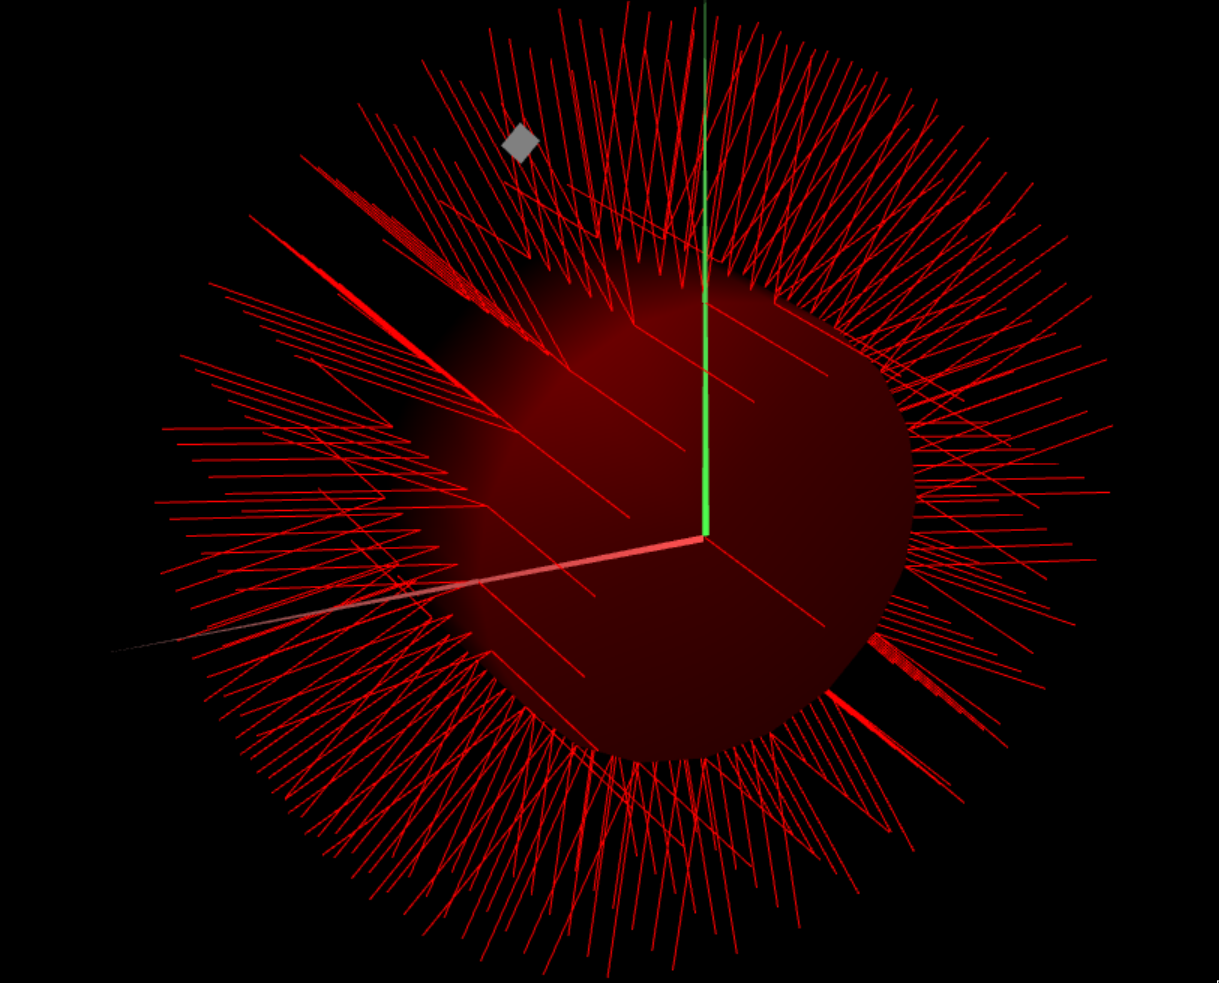
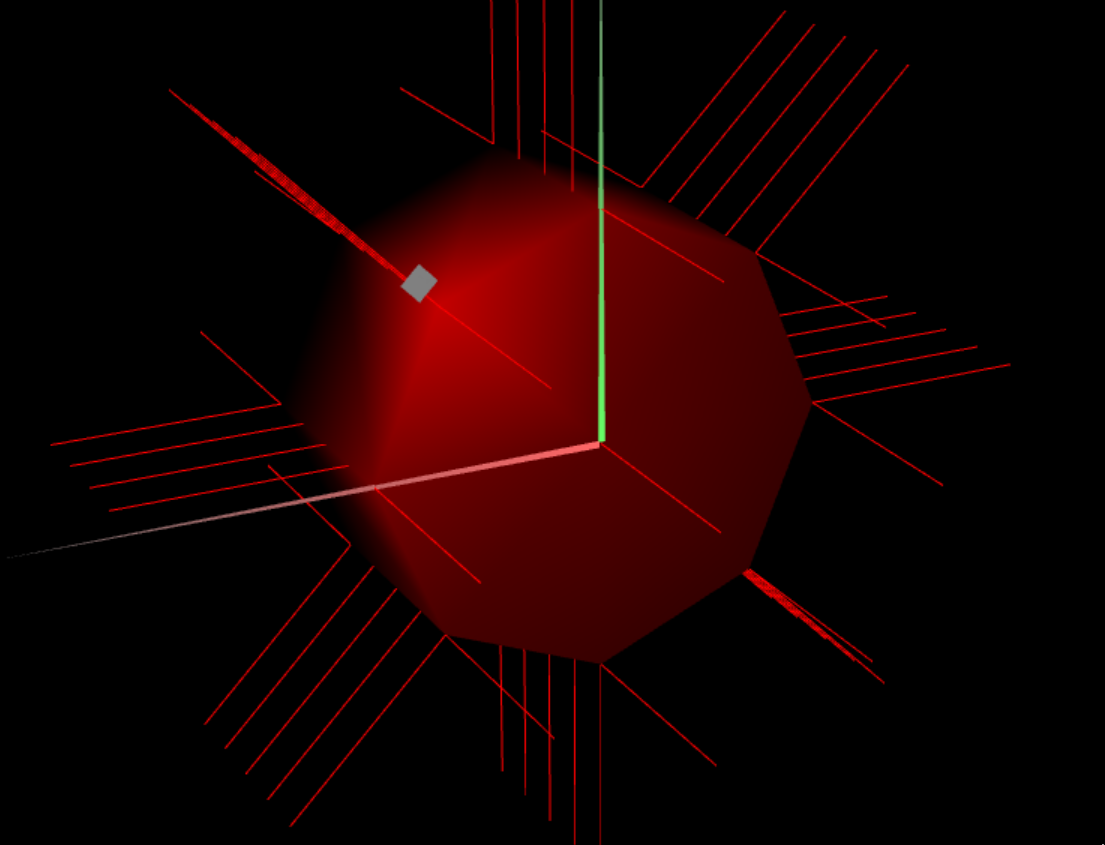
Finished report

diff --git a/tp3/MyCylinder.js b/tp3/MyCylinder.js
@@ -1,4 +1,4 @@
-import { MyPrism } from './MyPrism.js';
+import {MyPrism} from './MyPrism.js';
 /**
  * MyTriangleSmall
  * @constructor
@@ -10,44 +10,6 @@ export class MyCylinder extends MyPrism {
 
     this.initBuffers();
   }
-
-  initBuffers() {
-    console.log("MyCylinder.initBuffers")
-    this.vertices = [
-      0, 0, 0,  //
-      0, 0, 1   //
-    ];
-    this.indices = [];
-    this.normals = [
-      0, 0, -1,  //
-      0, 0, 1    //
-    ];
-
-    const angle = 2 * Math.PI / this.slices;
-
-    // Generate the base
-    for (let i = 0; i < this.slices; i++) {
-      const x = Math.cos(i * angle);
-      const y = Math.sin(i * angle);
-
-      this.vertices.push(x, y, 0);
-      this.indices.push(i + 2, 0, (i + 1) % this.slices + 2);
-      const vector = [x, y];
-      const length = Math.sqrt(vector[0]**2 + vector[1]**2)
-      const normalVector = [vector[0] / length, vector[1] / length]
-      this.normals.push(normalVector[0], normalVector[1], 0);
-    }
-
-    // Generate stacks
-    // for (let i = 0;)
-
-    // The defined indices (and corresponding vertices)
-    // will be read in groups of three to draw triangles
-    this.primitiveType = this.scene.gl.TRIANGLES;
-
-    this.initGLBuffers();
-  }
-
   initBuffers() {
     this.vertices = [
       0, 0, 0,  //
@@ -76,10 +38,10 @@ export class MyCylinder extends MyPrism {
       const y = Math.sin(i * angle);
 
       const vector = [x, y];
-      const length = Math.sqrt(vector[0]**2 + vector[1]**2)
+      const length = Math.sqrt(vector[0] ** 2 + vector[1] ** 2)
       const normalVector = [vector[0] / length, vector[1] / length]
-      
-      for (let z = 0; z < this.stacks + 1; z++) {
+
+          for (let z = 0; z < this.stacks + 1; z++) {
         this.vertices.push(x, y, z / this.stacks);
         this.normals.push(normalVector[0], normalVector[1], 0);
       }

diff --git a/tp3/MyInterface.js b/tp3/MyInterface.js
@@ -20,8 +20,14 @@ export class MyInterface extends CGFinterface {
     this.gui.add(this.scene, 'displayAxis').name('Display axis');
     this.gui.add(this.scene, 'displayNormals').name('Display normals');
 
-    this.gui.add(this.scene, 'slices', 0, 20).name('Slices');
-    this.gui.add(this.scene, 'stacks', 0, 20).name('Stacks');
+    this.gui.add(this.scene, 'slices', 0, 100)
+        .name('Slices')
+        .onChange(this.scene.updateObjectComplexity.bind(this.scene));
+
+
+    this.gui.add(this.scene, 'stacks', 0, 100)
+        .name('Stacks')
+        .onChange(this.scene.updateObjectComplexity.bind(this.scene));
 
     // example of a dropdown that has numeric ID's associated,
     // and an event handler to be called when the selection changes

diff --git a/tp3/MyScene.js b/tp3/MyScene.js
@@ -41,7 +41,7 @@ export class MyScene extends CGFscene {
     this.tangram = new MyTangram(this);
     this.cube = new MyUnitCube(this);
     this.prism = new MyPrism(this, this.slices, this.stacks);
-    this.cylinder = new MyCylinder(this, this.slices, this.stacks);
+    this.cylinder = new MyCylinder(this, 40, 4);
 
     this.objects = [
       this.plane, this.pyramid, this.cone, this.tangram, this.cube, this.prism,
